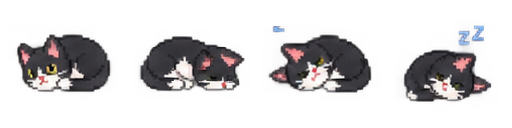
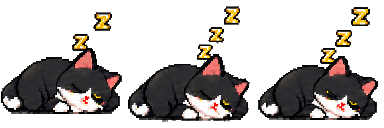
Use the artist's new sleep frames for the Sleepy mood and pre-build the menu popup so right-click opens instantly

diff --git a/index.html b/index.html
@@ -78,7 +78,7 @@
         <span class="strip" id="strip-happy"><img id="art-happy" src="/cat-art/happy.png" width="512" height="128" alt="" draggable="false" /></span>
         <span class="strip" id="strip-eat"><img id="art-eat" src="/cat-art/eat.png" width="512" height="128" alt="" draggable="false" /></span>
         <span class="strip" id="strip-drink"><img id="art-drink" src="/cat-art/drink.png" width="256" height="128" alt="" draggable="false" /></span>
-        <span class="strip" id="strip-sleepy"><img id="art-sleepy" src="/cat-art/sleepy.png" width="512" height="128" alt="" draggable="false" /></span>
+        <span class="strip" id="strip-sleepy"><img id="art-sleepy" src="/cat-art/sleepy.png" width="384" height="128" alt="" draggable="false" /></span>
         <span class="strip" id="strip-grumpy"><img id="art-grumpy" src="/cat-art/grumpy.png" width="160" height="128" alt="" draggable="false" /></span>
         <span class="strip" id="strip-sad"><img id="art-sad" src="/cat-art/sad.png" width="384" height="128" alt="" draggable="false" /></span>
       </div>

diff --git a/src/menu.ts b/src/menu.ts
@@ -1,4 +1,5 @@
 import { invoke } from "@tauri-apps/api/core";
+import { listen } from "@tauri-apps/api/event";
 import { requireElement } from "./dom";
 
 interface MenuState {
@@ -70,6 +71,12 @@ function init(): void {
   document.addEventListener("contextmenu", (event) => event.preventDefault());
   document.addEventListener("keydown", (event) => {
     if (event.key === "Escape") close();
+  });
+
+  // Reopening the warm popup: refresh checks and start on the main page.
+  void listen<MenuState>("cartner:menu-opened", (event) => {
+    applyState(event.payload);
+    showPage("main");
   });
 
   void invoke<MenuState>("menu_state")

diff --git a/src/style.css b/src/style.css
@@ -251,7 +251,7 @@ body.pixel #cat-layer {
 }
 
 #art-sleepy {
-  animation: art-cycle 4.2s steps(4) infinite;
+  animation: art-cycle 3.6s steps(3) infinite;
 }
 
 #art-sad {

diff --git a/src-tauri/src/lib.rs b/src-tauri/src/lib.rs
@@ -25,59 +25,74 @@ struct MenuState {
 /// webview reads it once on load; nothing polls.
 static MENU_STATE: Mutex<Option<MenuState>> = Mutex::new(None);
 
-/// Opens the designed menu popup at the cursor. The window is built on a
-/// background thread (building webviews on the main thread deadlocks) and
-/// destroyed on close, so it costs nothing while unused.
+/// Opens the designed menu popup at the cursor. The window is pre-built once
+/// (hidden) at startup and only positioned + shown afterwards, so a right
+/// click is instant instead of paying for webview creation each time.
 #[tauri::command]
 fn open_cat_menu(app: tauri::AppHandle, drink: bool, eat: bool, mood: String) {
-    if let Ok(mut state) = MENU_STATE.lock() {
-        *state = Some(MenuState {
-            drink,
-            eat,
-            mood,
-        });
-    }
-    let replacing = if let Some(existing) = app.get_webview_window("menu") {
-        let _ = existing.close();
-        true
-    } else {
-        false
+    let state = MenuState {
+        drink,
+        eat,
+        mood,
     };
+    if let Ok(mut slot) = MENU_STATE.lock() {
+        *slot = Some(state.clone());
+    }
 
+    if let Some(window) = app.get_webview_window("menu") {
+        show_menu_window(&app, &window, &state);
+        return;
+    }
+
+    // First use before the warm window finished building: wait for it, and
+    // only build one ourselves if it is really gone (e.g. Alt+F4 closed it).
     std::thread::spawn(move || {
-        if replacing {
-            // Let the closed popup release the window label first.
-            std::thread::sleep(std::time::Duration::from_millis(150));
-        }
-
-        let window = WebviewWindowBuilder::new(&app, "menu", WebviewUrl::App("menu.html".into()))
-            .title("Cartner Menu")
-            .inner_size(MENU_WIDTH, MENU_HEIGHT)
-            .decorations(false)
-            .transparent(true)
-            .always_on_top(true)
-            .skip_taskbar(true)
-            .shadow(false)
-            .resizable(false)
-            .visible(false)
-            .build();
-
-        match window {
-            Ok(window) => {
-                position_menu_at_cursor(&app, &window);
-                let _ = window.show();
-                let _ = window.set_focus();
-                // Dismiss like a real context menu: focus elsewhere closes it.
-                let handle = window.clone();
-                window.on_window_event(move |event| {
-                    if let WindowEvent::Focused(false) = event {
-                        let _ = handle.close();
-                    }
-                });
+        for _ in 0..20 {
+            std::thread::sleep(std::time::Duration::from_millis(50));
+            if let Some(window) = app.get_webview_window("menu") {
+                show_menu_window(&app, &window, &state);
+                return;
             }
+        }
+        match create_menu_window(&app) {
+            Ok(window) => show_menu_window(&app, &window, &state),
             Err(error) => eprintln!("mochi: failed to open the menu window: {error}"),
         }
     });
+}
+
+fn show_menu_window(app: &tauri::AppHandle, window: &tauri::WebviewWindow, state: &MenuState) {
+    position_menu_at_cursor(app, window);
+    let _ = window.show();
+    let _ = window.set_focus();
+    // The page is already loaded; this just refreshes checks and resets the page.
+    let _ = window.emit("cartner:menu-opened", state);
+}
+
+/// Builds the popup once. Must not run on the main thread (that deadlocks).
+fn create_menu_window(app: &tauri::AppHandle) -> tauri::Result<tauri::WebviewWindow> {
+    let window = WebviewWindowBuilder::new(app, "menu", WebviewUrl::App("menu.html".into()))
+        .title("Cartner Menu")
+        .inner_size(MENU_WIDTH, MENU_HEIGHT)
+        .decorations(false)
+        .transparent(true)
+        .always_on_top(true)
+        .skip_taskbar(true)
+        .shadow(false)
+        .resizable(false)
+        .focused(false)
+        .visible(false)
+        .build()?;
+
+    // Dismiss like a real context menu: focus elsewhere hides it. A hidden
+    // webview costs no CPU, so the next open stays instant.
+    let handle = window.clone();
+    window.on_window_event(move |event| {
+        if let WindowEvent::Focused(false) = event {
+            let _ = handle.hide();
+        }
+    });
+    Ok(window)
 }
 
 /// Anchors the card's top-left corner at the cursor, flipping it left/up near
@@ -135,11 +150,11 @@ fn menu_state() -> MenuState {
         })
 }
 
-/// A menu row was clicked: close the popup, then act as the tray would.
+/// A menu row was clicked: hide the popup, then act as the tray would.
 #[tauri::command]
 fn pick_menu(app: tauri::AppHandle, action: String) {
     if let Some(window) = app.get_webview_window("menu") {
-        let _ = window.close();
+        let _ = window.hide();
     }
     handle_menu_event(&app, &action);
 }
@@ -147,7 +162,7 @@ fn pick_menu(app: tauri::AppHandle, action: String) {
 #[tauri::command]
 fn close_cat_menu(app: tauri::AppHandle) {
     if let Some(window) = app.get_webview_window("menu") {
-        let _ = window.close();
+        let _ = window.hide();
     }
 }
 
@@ -353,6 +368,15 @@ pub fn run() {
                     });
                 }
             }
+
+            // Build the context-menu popup once, hidden, so the first right
+            // click does not pay for webview startup.
+            let warm = app.handle().clone();
+            std::thread::spawn(move || {
+                if let Err(error) = create_menu_window(&warm) {
+                    eprintln!("mochi: could not pre-build the menu window: {error}");
+                }
+            });
 
             Ok(())
         })
